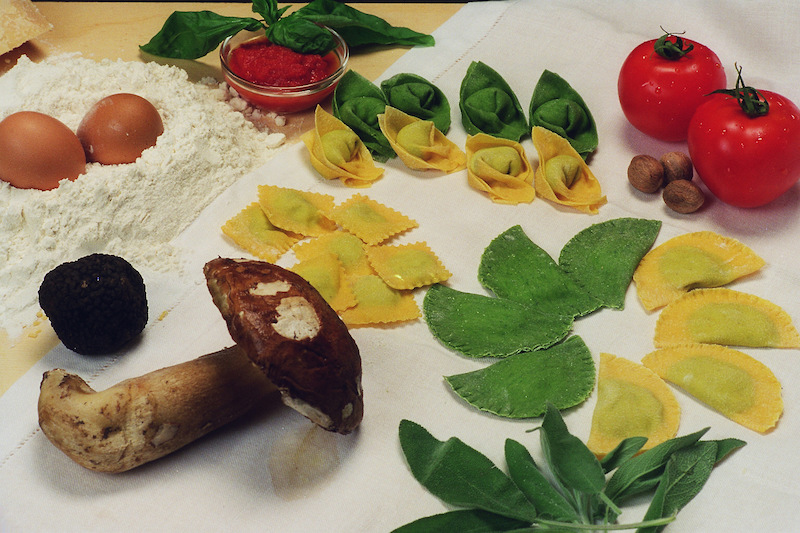
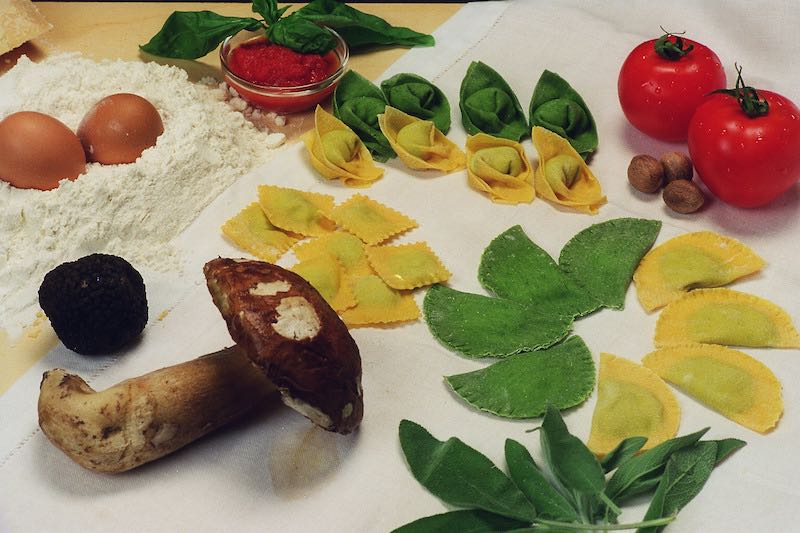
Updated placeholder img
Placeholder image updated

diff --git a/_evidenza/prodotti.md b/_evidenza/prodotti.md
@@ -2,7 +2,7 @@
 title: Prodotti
 
 images:
-  - url: /img/placeholder.JPG
+  - url: /img/placeholder.jpg
     alt: prodotti
     
 link: /prodotti/
